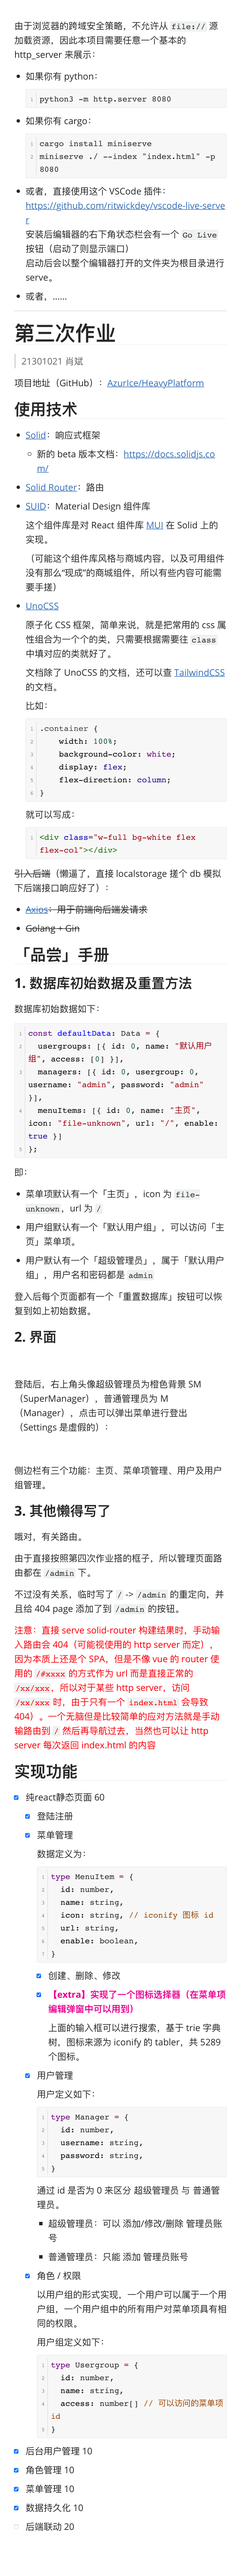
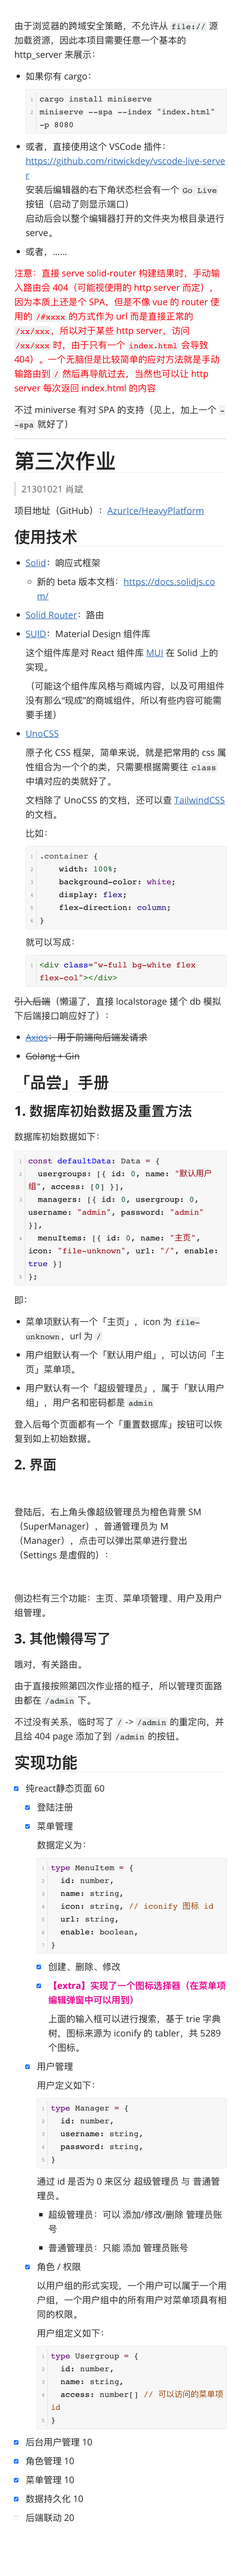
doc: update 第三次作业.png
开摆

diff --git a/docs/第三次作业.md b/docs/第三次作业.md
@@ -1,4 +1,27 @@
+由于浏览器的跨域安全策略，不允许从 `file://` 源加载资源，因此本项目需要任意一个基本的 http_server 来展示：
+
+- 如果你有 cargo：
+    ```
+    cargo install miniserve
+    miniserve --spa --index "index.html" -p 8080
+    ```
+- 或者，直接使用这个 VSCode 插件：
+    https://github.com/ritwickdey/vscode-live-server
+    安装后编辑器的右下角状态栏会有一个 `Go Live` 按钮（启动了则显示端口）
+    启动后会以整个编辑器打开的文件夹为根目录进行 serve。
+- 或者，......
+
+<font color="red">注意：直接 serve solid-router 构建结果时，手动输入路由会 404（可能视使用的 http server 而定），因为本质上还是个 SPA，但是不像 vue 的 router 使用的 `/#xxxx` 的方式作为 url 而是直接正常的 `/xx/xxx`，所以对于某些 http server，访问 `/xx/xxx` 时，由于只有一个 `index.html` 会导致 404）。一个无脑但是比较简单的应对方法就是手动输路由到 `/` 然后再导航过去，当然也可以让 http server 每次返回 index.html 的内容</font>
+
+不过 miniverse 有对 SPA 的支持（见上，加上一个 `--spa` 就好了）
+
+---
+
 # 第三次作业
+
+> 21301021 肖斌
+
+项目地址（GitHub）：[AzurIce/HeavyPlatform](https://github.com/AzurIce/HeavyPlatform)
 
 ## 使用技术
 
@@ -81,8 +104,6 @@ const defaultData: Data = {
 由于直接按照第四次作业搭的框子，所以管理页面路由都在 `/admin` 下。
 
 不过没有关系，临时写了 `/` -> `/admin` 的重定向，并且给 404 page 添加了到 `/admin` 的按钮。
-
-<font color="red">注意：直接 serve solid-router 构建结果时，手动输入路由会 404（可能视使用的 http server 而定），因为本质上还是个 SPA，但是不像 vue 的 router 使用的 `/#xxxx` 的方式作为 url 而是直接正常的 `/xx/xxx`，所以对于某些 http server，访问 `/xx/xxx` 时，由于只有一个 `index.html` 会导致 404）。一个无脑但是比较简单的应对方法就是手动输路由到 `/` 然后再导航过去，当然也可以让 http server 每次返回 index.html 的内容</font>
 
 ## 实现功能
 
